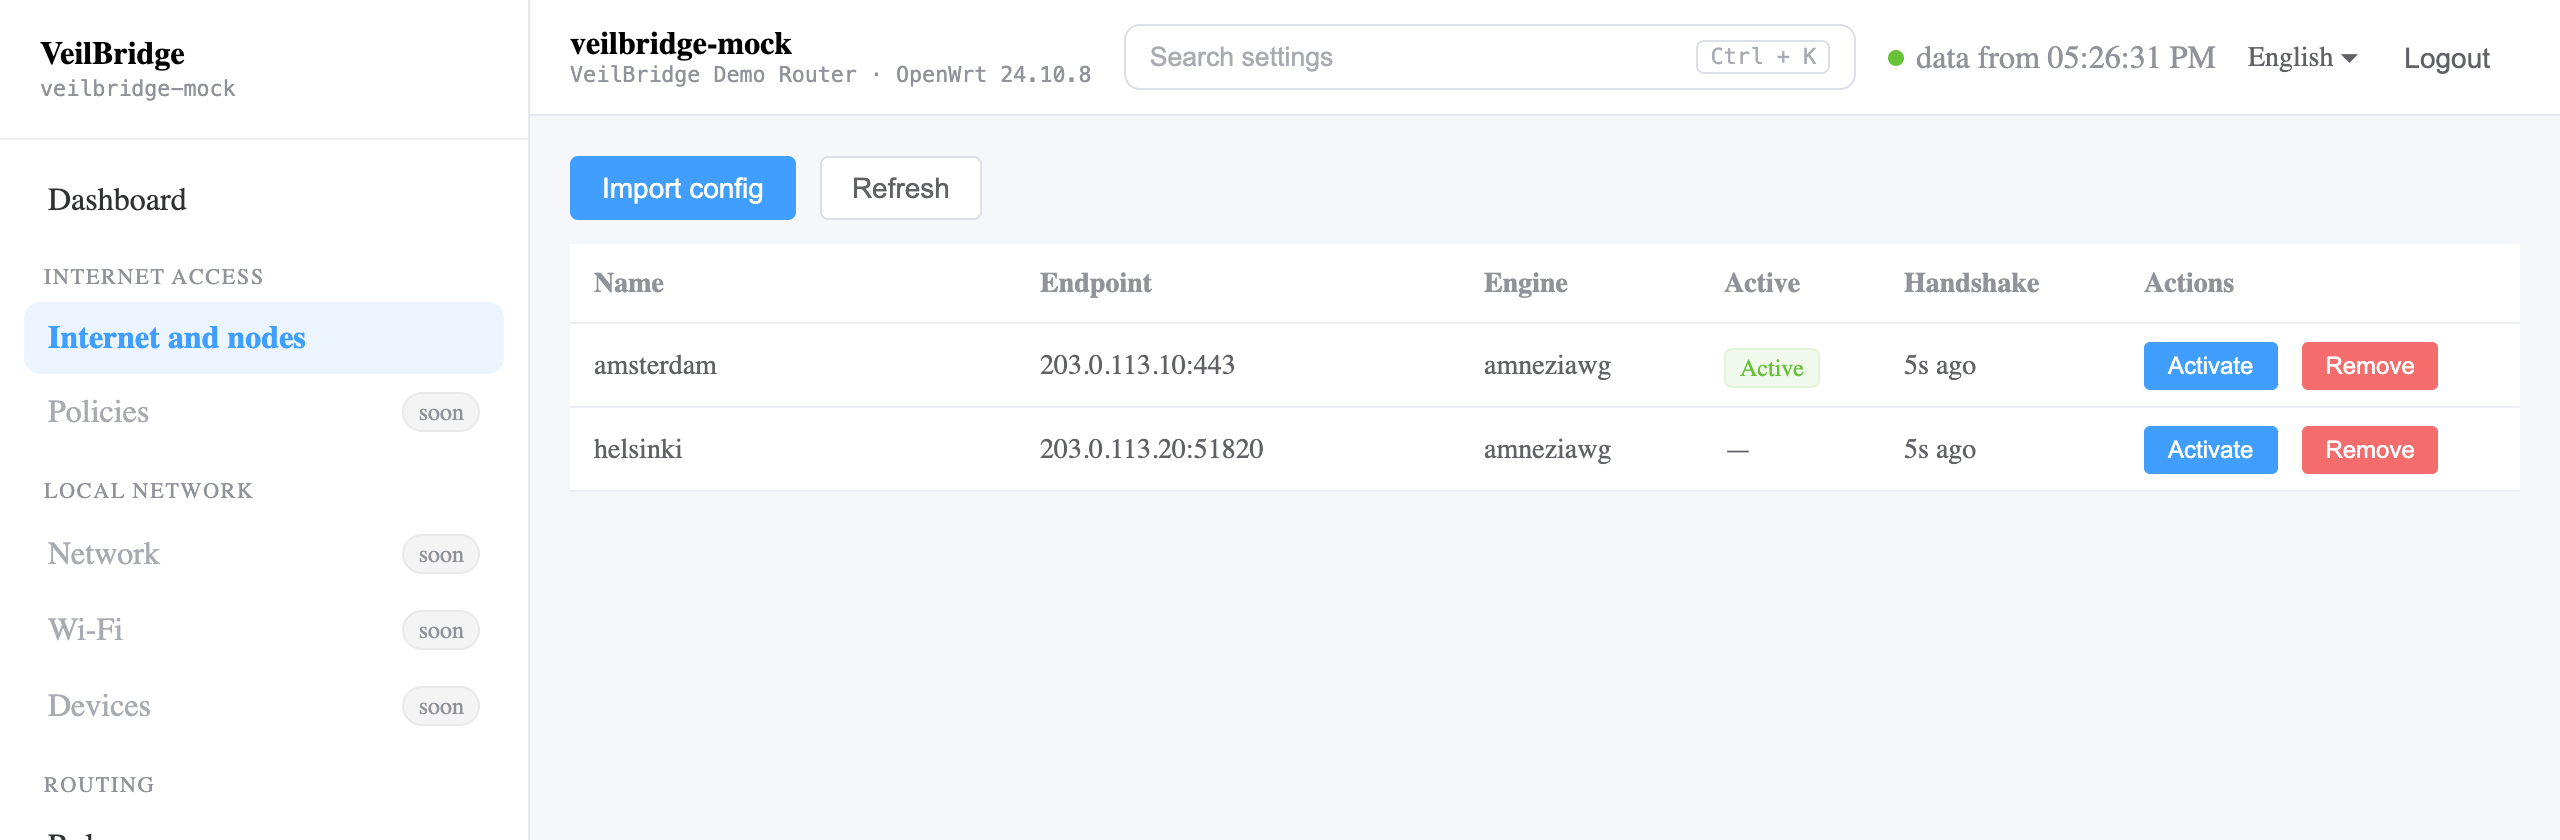
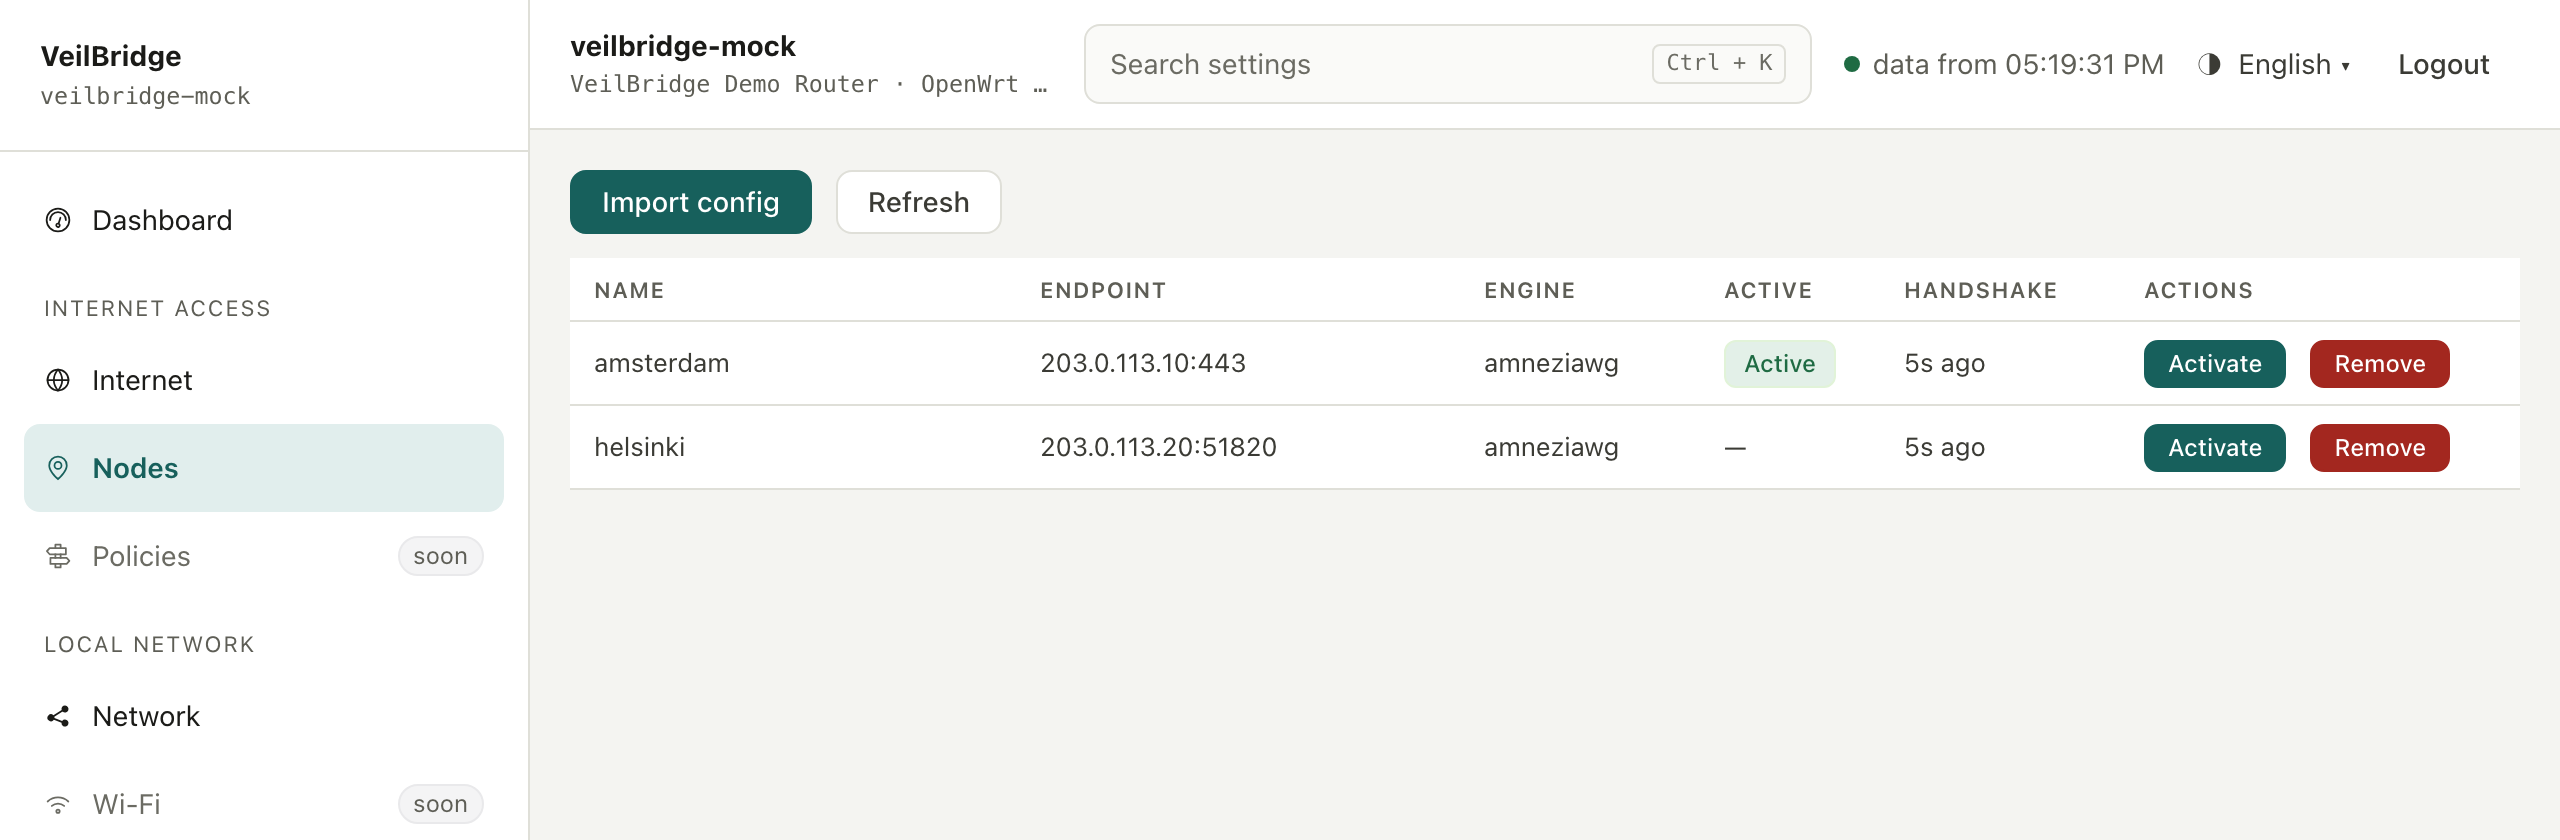
docs: release notes for v0.2.0-alpha2, and screenshots that include the firewall screen

diff --git a/README.md b/README.md
@@ -17,7 +17,7 @@ and proof of where your traffic actually leaves.
 ## Status
 
 🧪 **Stable: [`v0.1.2`](https://github.com/veilbridge-os/veilbridge/releases/latest).
-Pre-release for testers: [`v0.2.0-alpha1`](https://github.com/veilbridge-os/veilbridge/releases/tag/v0.2.0-alpha1).**
+Pre-release for testers: [`v0.2.0-alpha2`](https://github.com/veilbridge-os/veilbridge/releases/tag/v0.2.0-alpha2).**
 Everything below is verified on real hardware — an x86 OpenWrt VM and a Cudy
 WR3000S router — not on a developer's laptop. What changed in each version:
 [`CHANGELOG.md`](./CHANGELOG.md).
@@ -26,23 +26,28 @@ WR3000S router — not on a developer's laptop. What changed in each version:
 engine, `awg0` appears, and the dashboard confirms traffic egresses through it
 by comparing egress IPs rather than trusting a `200 OK`.
 
-**In `v0.2.0-alpha1` and on `main`:** the platform layer — configuration changes go
+**In `v0.2.0-alpha2` and on `main`:** the platform layer — configuration changes go
 through a transaction that undoes itself if nobody confirms (proven by
 deliberately cutting the router's own management link and watching it come
 back), device capabilities the UI branches on, a live update stream, and a
 rebuilt panel with a dashboard that reports model, firmware, memory and the
 flash space that actually runs out first.
 
-The first router-network screens are on `main` too: the uplink (connection
+The router-network screens are in it too: the uplink (connection
 type, addresses, DNS servers) and the local network (router address, address
 handout, lease time, and reserving an address for a device straight from the
 client table). Every change is staged, shown as a before/after diff and applied
 through the self-reverting transaction.
 
-On `main`, not yet in a release: the firewall has its own screen — what is
-open from the internet, port forwards, and your own rules, added, changed,
-switched off, reordered and removed through the same self-reverting
-transaction. VeilBridge does **not** yet manage static routes, Wi-Fi or clients — keep LuCI around for those. See [Install](#install)
+And the firewall has its own screen — what is open from the internet, port
+forwards, and your own rules, added, changed, switched off, reordered and
+removed through the same self-reverting transaction; a rule that could never
+act where it would land is refused, naming the rule in the way.
+
+![VeilBridge firewall screen](docs/img/firewall.png)
+
+VeilBridge does **not** yet manage static routes, Wi-Fi or clients — keep
+LuCI around for those. See [Install](#install)
 for the release binaries and the [roadmap](#roadmap) for what is next.
 
 ## Features (v0.1)
@@ -55,7 +60,7 @@ for the release binaries and the [roadmap](#roadmap) for what is next.
 - **Path-aware checks** — verify traffic *actually* egresses through the tunnel, by comparing the egress IP, not by trusting `200 OK`
 - **13 languages** — UI localized (full en/ru, the rest fall back to English)
 
-### Added in the `v0.2` line (pre-release `v0.2.0-alpha1`)
+### Added in the `v0.2` line (pre-release `v0.2.0-alpha2`)
 
 - **Safe apply** — a dangerous change is applied with a confirmation window; no
   confirmation, and the device restores the previous settings by itself
@@ -69,13 +74,17 @@ for the release binaries and the [roadmap](#roadmap) for what is next.
   panel stops answering mid-change, it says so instead of waiting silently
 - **Local network screen** — router address, address handout and lease time,
   the clients currently holding an address, and reserved addresses
+- **Firewall screen** — what is open from the internet, port forwards, your own
+  rules in the order the router runs them; firmware rules read-only
+- **Settings search** — finds a section by the words people use for it
+  ("port forwarding", "NAT", "DHCP", "PPPoE")
 
 ## Roadmap
 
 | Version | Highlights | Status |
 | --- | --- | --- |
 | `v0.1` | AmneziaWG engine, own routing, dashboard, OpenWrt adapter | ✅ released |
-| `v0.2` | Platform layer (uci/ubus) with safe apply + rollback, capabilities, live updates, rebuilt panel, router network | 🟡 pre-release `v0.2.0-alpha1`: platform layer, panel, uplink and local network/DHCP done; on `main`: the firewall screen (port forwards, own rules, their order); static routes in progress |
+| `v0.2` | Platform layer (uci/ubus) with safe apply + rollback, capabilities, live updates, rebuilt panel, router network | 🟡 pre-release `v0.2.0-alpha2`: platform layer, panel, uplink, local network/DHCP and firewall done; static routes and emergency access in progress |
 | `v0.3` | Devices & Wi-Fi; exit-node policies, health-check failover | planned |
 | `v0.4` | FakeIP and domain routing; DNS with per-device profiles and filters | planned |
 | `v0.5+` | App platform and market (VLESS/Xray, auto-bypass as apps), VPN servers, QoS, remote access | planned |
@@ -135,7 +144,7 @@ It installs the latest **stable** release. To try a pre-release, or to go back
 to an older version on purpose:
 
 ```sh
-wget -qO- https://raw.githubusercontent.com/veilbridge-os/veilbridge/main/scripts/install.sh | VB_VERSION=v0.2.0-alpha1 sh
+wget -qO- https://raw.githubusercontent.com/veilbridge-os/veilbridge/main/scripts/install.sh | VB_VERSION=v0.2.0-alpha2 sh
 wget -qO- https://raw.githubusercontent.com/veilbridge-os/veilbridge/main/scripts/install.sh | VB_VERSION=v0.1.2 VB_ALLOW_DOWNGRADE=1 sh
 ```
 

diff --git a/docs/release-notes/v0.2.0-alpha2.md b/docs/release-notes/v0.2.0-alpha2.md
@@ -1,0 +1,99 @@
+> **Pre-release.** The second build of the `v0.2` line, for people willing to
+> test on a router they can reach by cable. It is never offered as the latest
+> release; the stable line is [v0.1.2](https://github.com/veilbridge-os/veilbridge/releases/tag/v0.1.2).
+> `v0.2.0` ships when static routes and emergency access are done — track it
+> on the [roadmap](https://github.com/orgs/veilbridge-os/projects/1) and the
+> [v0.2.0 milestone](https://github.com/veilbridge-os/veilbridge/milestone/2).
+
+## What is new
+
+**Firewall screen** (menu: Network rules → Firewall). The first thing it says
+is what is open from the internet, in one sentence. Below: port forwards, with
+the device picked from the devices on your network; your own rules, numbered
+in the order the router runs them, switched on and off, moved by dragging or
+with arrows; the rules the firmware ships, folded and read-only; and the zones
+as a reference. Every change goes through the same confirmation window as the
+rest of the panel — if you lock yourself out, the router puts things back by
+itself.
+
+**Rules that would never act are refused.** On a firewall the first matching
+rule wins, so a new rule placed below one that already decides the same
+traffic would do nothing — and a panel that said "done" would be lying. Such a
+rule is refused next to "Place in the list", with the name of the rule in the
+way and a one-click "Put it before …". The same check guards moving a rule.
+The router's own firewall also checks every draft before it is accepted.
+
+**Settings search knows the usual words.** "port forwarding", "проброс
+портов", "NAT" find the firewall, "DHCP" the local network, "PPPoE" the
+internet connection — and the result says which word matched.
+
+**Words router owners already know:** "DNS servers" instead of "Resolvers",
+"MAC address" instead of "Hardware address", in both languages.
+
+**Clearer warnings and diffs.** A warning about losing access now says how to
+get back, with the address to open. Every staged change says which rule, port
+forward or reserved address it is about. Lease time reads "12 hours → 2 hours".
+A value the router refuses is shown next to the field it is about. The
+countdown quotes the router's real confirmation window.
+
+A device with one network port and no Wi-Fi has no local network to hand
+addresses out on — the panel now says so and hides that section.
+
+## Fixed since v0.2.0-alpha1
+
+- A port forward being removed was listed, after reloading the page, as the
+  bare word `redirect` instead of the forward itself — exactly when you were
+  about to confirm it.
+- An address reserved for a device could not be changed to another one: the
+  router refused with "not a valid section name".
+- A change to one of several rules or forwards did not say which one:
+  switching off the rule that keeps the panel reachable read just "Rule is on:
+  yes → no".
+- The local network address was listed for confirmation with the words of the
+  internet connection.
+- On a 360 px phone the list of changes ran off the screen in Russian, and the
+  "pin an address by hand" dialog was cut off.
+
+## Not in this build
+
+- Static routes and emergency access (a safe mode that resets only network
+  changes) — the last two parts of `v0.2.0`.
+- Firewall rules with conditions the panel does not show yet (source address,
+  schedule, rate limit) are named, and can be switched on and off or removed,
+  but not edited here.
+- Switching an existing rule back on is not checked against the rules above
+  it: if one of them already decides that traffic, the rule stays inert.
+- Wi-Fi and the client list — keep LuCI for those.
+- Built-in TLS: the panel speaks plain HTTP, so use it on a trusted network.
+- Exit nodes and routing rules still use the screens from v0.1.
+
+## Install, upgrade, go back
+
+Keep a copy first: `cp -a /etc/veilbridge /root/veilbridge-backup`.
+
+```sh
+# try the pre-release (upgrades v0.1.x or alpha1, keeps /etc/veilbridge)
+wget -qO- https://raw.githubusercontent.com/veilbridge-os/veilbridge/main/scripts/install.sh | VB_VERSION=v0.2.0-alpha2 sh
+
+# go back to the stable line
+wget -qO- https://raw.githubusercontent.com/veilbridge-os/veilbridge/main/scripts/install.sh | VB_VERSION=v0.1.2 VB_ALLOW_DOWNGRADE=1 sh
+```
+
+Running the plain installer (without `VB_VERSION`) on a router that has the
+pre-release changes nothing: it refuses to go back to stable unless you set
+`VB_ALLOW_DOWNGRADE=1`.
+
+Package versions are `0.2.0~alpha2` (opkg) and `0.2.0_alpha2` (apk).
+
+## Verified on
+
+- **Risk gate** (`scripts/m1-rollback-e2e.sh`), both scenarios — revert by
+  timeout and revert after the daemon is killed, then a working default route
+  and a path to the internet — on an x86-64 OpenWrt 23.05.5 VM and on a Cudy
+  WR3000S v1 (aarch64, OpenWrt 25.12.5), on the code of this release.
+- **Firewall on the router, checked from outside**: a forwarded port opened
+  inside the confirmation window, closed by itself when nobody confirmed,
+  stayed open after confirming and closed when removed; a rule blocking the
+  panel, put in front of the rule allowing it through the screen itself, cut
+  the panel off and the settings came back by themselves. The firewall
+  configuration was byte-identical afterwards.

diff --git a/CHANGELOG.md b/CHANGELOG.md
@@ -8,6 +8,12 @@ in [`RELEASING.md`](./RELEASING.md). Each release also has written notes in
 
 ## [Unreleased]
 
+## [0.2.0-alpha2] — 2026-09-26 — pre-release
+
+The second build of the `v0.2` line, still a **pre-release**: static routes
+and emergency access are to come, and it is never offered as the latest
+release. The firewall is in; so are fixes for three defects of `alpha1`.
+
 ### Added
 - `GET /firewall`: zones with their role (internet side, local network —
   derived from what a zone does, not from its name), which zone may reach
@@ -117,6 +123,14 @@ in [`RELEASING.md`](./RELEASING.md). Each release also has written notes in
   screen in Russian, and the "pin an address by hand" dialog is no longer cut
   off at the right edge.
 
+### Known issues
+- Static routes, emergency access, Wi-Fi and clients are not managed yet.
+- The panel speaks plain HTTP.
+- Firewall rules with conditions the panel does not show (source address,
+  schedule, rate limit) can be switched on and off or removed, not edited.
+- Switching an existing rule back on is not checked against the rules above
+  it; a rule an earlier one already decides stays inert.
+
 ## [0.2.0-alpha1] — 2026-09-25 — pre-release
 
 The first public build of the `v0.2` line. It is a **pre-release**: the version
@@ -194,7 +208,8 @@ First public release.
 - 13 interface languages (English and Russian complete).
 - `-demo` mode, `-version`, static binaries for amd64 and arm64 with the UI embedded.
 
-[Unreleased]: https://github.com/veilbridge-os/veilbridge/compare/v0.2.0-alpha1...HEAD
+[Unreleased]: https://github.com/veilbridge-os/veilbridge/compare/v0.2.0-alpha2...HEAD
+[0.2.0-alpha2]: https://github.com/veilbridge-os/veilbridge/compare/v0.2.0-alpha1...v0.2.0-alpha2
 [0.2.0-alpha1]: https://github.com/veilbridge-os/veilbridge/compare/v0.1.2...v0.2.0-alpha1
 [0.1.2]: https://github.com/veilbridge-os/veilbridge/compare/v0.1.1...v0.1.2
 [0.1.1]: https://github.com/veilbridge-os/veilbridge/compare/v0.1.0...v0.1.1
